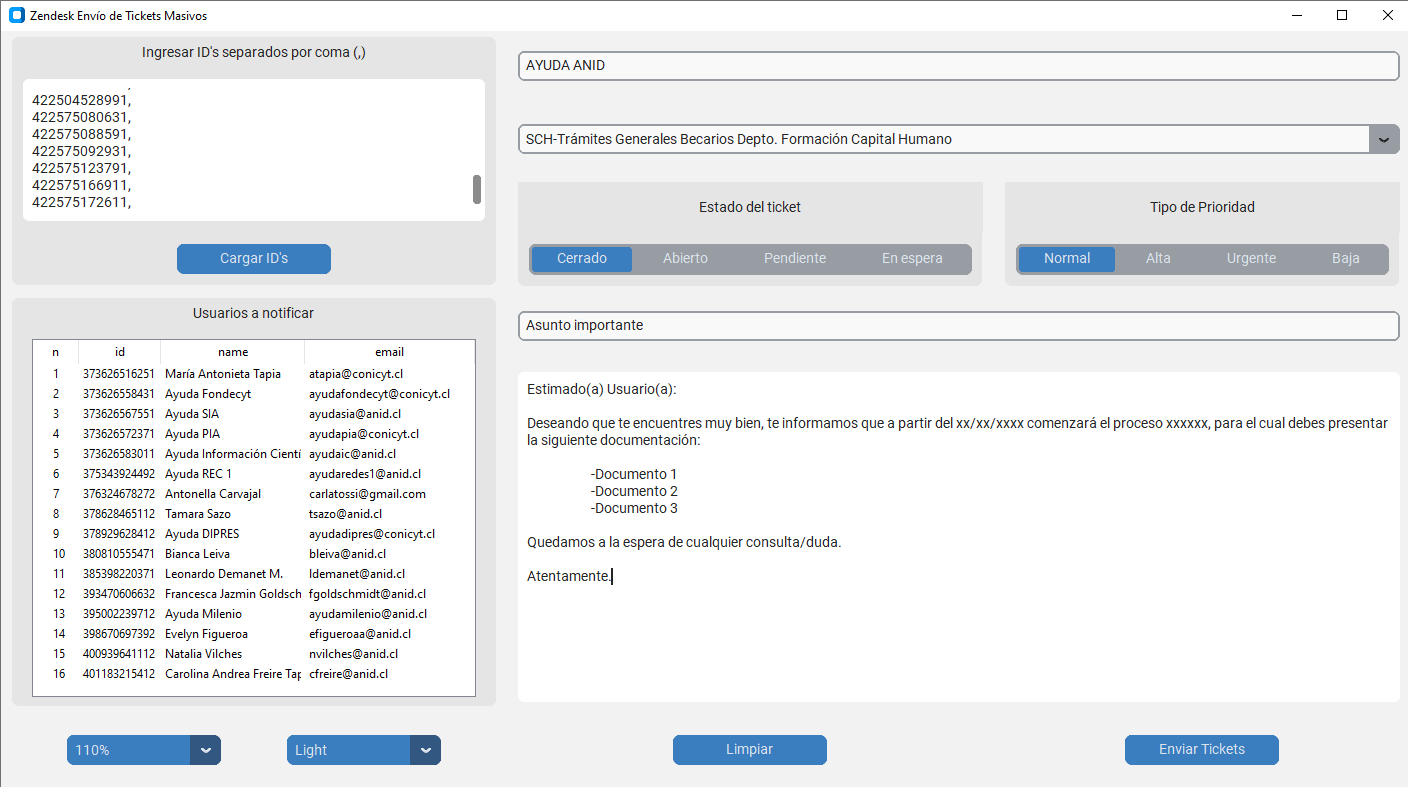
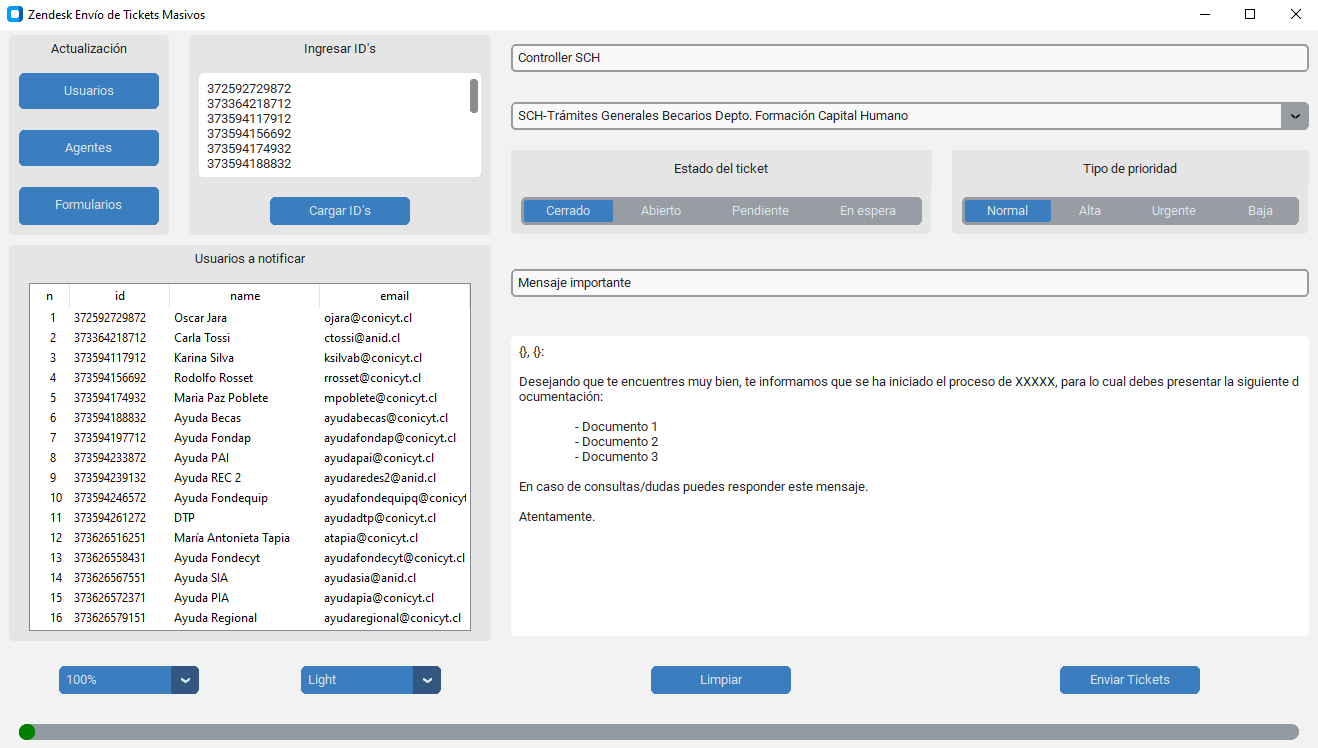
Actualización

Changed region(s): [[0.0, 0.0615, 0.9954, 1.0], [0.0, 0.0, 0.1555, 0.0307], [0.9332, 0.0, 0.9954, 0.0307]]

diff --git a/main.py b/main.py
@@ -213,9 +213,6 @@ class App(customtkinter.CTk):
 
 
         def formularios():
-            time.sleep(1)
-            self.progressbar.set(0)
-            time.sleep(2)
             self.progressbar.set(0)
             msg = CTkMessagebox(title="Confirmar descarga/actualización de formularios",
                                 message="Se iniciará la descarga de formularios desde Zendesk API. Este proceso tomará unos minutos para crear/actualizar dos archivos en la carpeta fuente: (i) 'formularios_zendesk.json' y (ii) 'Formularios.xlsx'.",
@@ -401,6 +398,16 @@ class App(customtkinter.CTk):
                         show_error_1()
                         return
 
+            if ids_lista == []:
+                def show_error_id_vacio():
+                    # Show some error message
+                    CTkMessagebox(title="Error",
+                                  message="No ha ingresado la lista de ID's",
+                                  icon="cancel")
+
+                show_error_id_vacio()
+                return
+
             print(ids_lista)
 
             def buscar_por_id(usuarios, ids):
@@ -503,18 +510,15 @@ class App(customtkinter.CTk):
         # Obtener solo los nombres de los formularios filtrados
         ticket_form_names = [formulario['form_title'] for formulario in filtered_forms]
 
-        def combobox_callback(choice):
-            print("combobox dropdown clicked:", choice)
-
         default_1 = customtkinter.StringVar(value="Seleccionar tipo de producto")
+        def combobox_callback(choice):
+            print("combobox dropdown clicked:", str(self.optionmenu_1.get()))
+
         self.optionmenu_1 = customtkinter.CTkComboBox(self, width=640, command=combobox_callback, variable=default_1)
         self.optionmenu_1.grid(row=1, column=2, columnspan=2, padx=10, pady=10, sticky="ew")
         CTkScrollableDropdown(self.optionmenu_1, values=ticket_form_names, justify="left", height=700)
 
         #······································ ESTADO DEL TICKET ·················································
-
-        def radiobutton_event():
-            print("radiobutton toggled, current value:", radio_var.get())
 
         estado_frame = customtkinter.CTkFrame(self)
         estado_frame.grid(row=2, column=2, padx=10, pady=5, sticky="nsew")
@@ -522,12 +526,15 @@ class App(customtkinter.CTk):
         estado_label = customtkinter.CTkLabel(estado_frame, text="Estado del ticket")
         estado_label.pack(side="top", expand=True, fill="both")
 
-        radio_var = tkinter.IntVar(value=0)
+        def obtener_valor_estado(valor):
+            valor_seleccionado = self.segemented_button_var.get()
+            print(str(valor_seleccionado))
 
         self.segemented_button_var = customtkinter.StringVar(value="Cerrado")
         self.segemented_button = customtkinter.CTkSegmentedButton(estado_frame,
                                                                   values=["Cerrado", "Abierto", "Pendiente", "En espera"],
-                                                                  variable=self.segemented_button_var)
+                                                                  variable=self.segemented_button_var,
+                                                                  command=obtener_valor_estado)
         self.segemented_button.pack(side="left", padx=10, pady=10, expand=True, fill="both")
 
         # ································ PRIORIDAD DEL TICKET ·················································
@@ -536,11 +543,15 @@ class App(customtkinter.CTk):
         prioridad_frame.grid(row=2, column=3, padx=10, pady=5, sticky="nsew")
         prioridad_label = customtkinter.CTkLabel(prioridad_frame, text="Tipo de prioridad")
         prioridad_label.pack(side="top", expand=True, fill="both")
+        def obtener_valor_prioridad(valor):
+            valor_seleccionado = self.segemented_button_var_1.get()
+            print(str(valor_seleccionado))
 
         self.segemented_button_var_1 = customtkinter.StringVar(value="Normal")
         self.segemented_button_var_1 = customtkinter.CTkSegmentedButton(prioridad_frame,
                                                                         values=["Normal", "Alta", "Urgente", "Baja"],
-                                                                        variable=self.segemented_button_var_1)
+                                                                        variable=self.segemented_button_var_1,
+                                                                        command=obtener_valor_prioridad)
         self.segemented_button_var_1.pack(side="right", padx=10, pady=10, expand=True, fill="both")
 
         #····································· ASUNTO DEL MENSAJE ··········································
@@ -555,7 +566,7 @@ class App(customtkinter.CTk):
 
         self.textbox.grid(row=4, column=2, columnspan=2, padx=10, pady=10, sticky="nsew")
 
-        self.textbox.insert("0.0","Insertar mensaje")
+        self.textbox.insert("0.0","{}, {}:\n\nEscribir/copiar aquí el resto del mensaje. La primera línea es un encabezado que automaticamente asignara el siguiente string: Buenos días/tardes/noches (automático dependiendo de la hora a la que se cree el ticket) y el nombre del usuario:.\n\nDe todas formas, es posible borrarlo y escribir cualquier mensaje, solo debes considerar que si se mantienen los dos corchetes en la pimera línea, la apertura del mensaje será automática. Otro punto importante es que si se deja la pimera línea, no deben existir otros corchetes iguales dentro del mensaje que sigue en el resto de las líneas.")
         self.textbox_carga.insert("0.0", "")
 
         def envio():
@@ -743,8 +754,8 @@ class App(customtkinter.CTk):
                             else:
                                 return
                         show_warning_api()
-                    ##########################################################################################
 
+                    ############################## Lectura usuarios y mensaje ################################
                     usuarios = resultados
 
                     # Definir los datos del agente
@@ -756,6 +767,15 @@ class App(customtkinter.CTk):
                     # Crear la lista de datos de los tickets
                     tickets = []
                     for usuario in usuarios:
+                        # Obtener la hora actual
+                        hora_actual = datetime.datetime.now().time()
+                        # Determinar si es mañana, tarde o noche
+                        if hora_actual < datetime.time(12):
+                            saludo = "Buenos días"
+                        elif hora_actual < datetime.time(18):
+                            saludo = "Buenas tardes"
+                        else:
+                            saludo = "Buenas noches"
                         ticket_data = {
                             "ticket": {
                                 'tags': 'notificacion_masiva_sch',  # a crear por el tito
@@ -764,7 +784,7 @@ class App(customtkinter.CTk):
                                 "assignee_id": agente["id"],
                                 "subject": asunto,
                                 "raw_subject": asunto,
-                                "comment": {"body": cuerpo},
+                                "comment": {"body": cuerpo.format(saludo, usuario["name"])},
                                 # "comment": {"body": cuerpo, "public": False},
                                 # "actions": [{'field': 'notification_user',
                                 #             'value': [
@@ -835,14 +855,16 @@ class App(customtkinter.CTk):
                         }
                         tickets.append(ticket_data)
                     print("Tickets:", tickets)
-                    json_response = []
                     ##########################################################################################
                     # Enviar una solicitud para crear cada ticket
+                    json_response = []
+
                     ticket_url = "https://conicytoirs.zendesk.com/api/v2/tickets.json"
 
                     max_attempts = 3  # Número máximo de intentos permitidos por ticket
 
                     for i, ticket_data in enumerate(tickets, start=1):
+                        print(ticket_data)
                         attempts = 0
                         while attempts < max_attempts:
                             try:
@@ -867,7 +889,7 @@ class App(customtkinter.CTk):
                             except requests.exceptions.SSLError:
                                 print('Error SSL. Reintentando la solicitud...')
                                 attempts += 1
-                                time.sleep(3)  # Esperar 3 segundos antes de reintentar
+                                time.sleep(3)  # Esperar 3 segundos antes de reintentar"""
 
                         self.progressbar.set(i / len(tickets))
                         self.progressbar.get()
